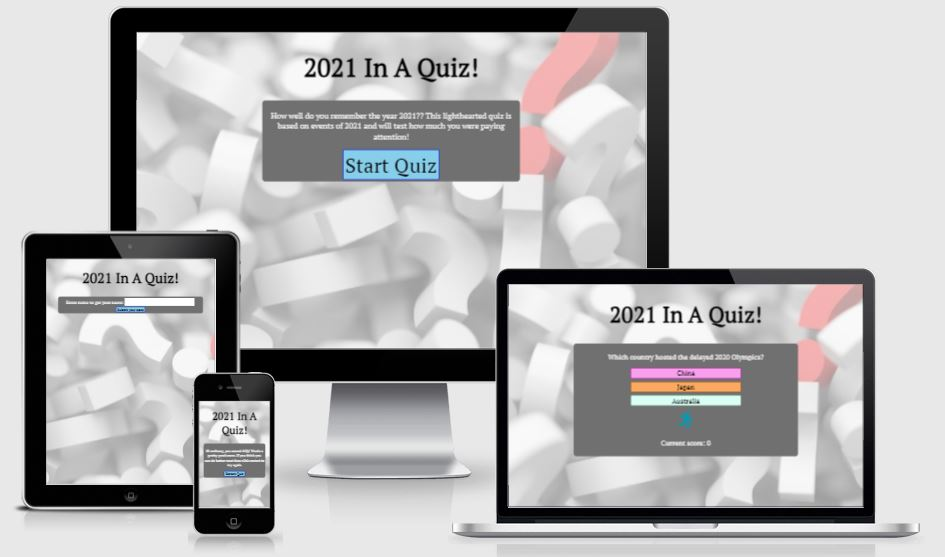
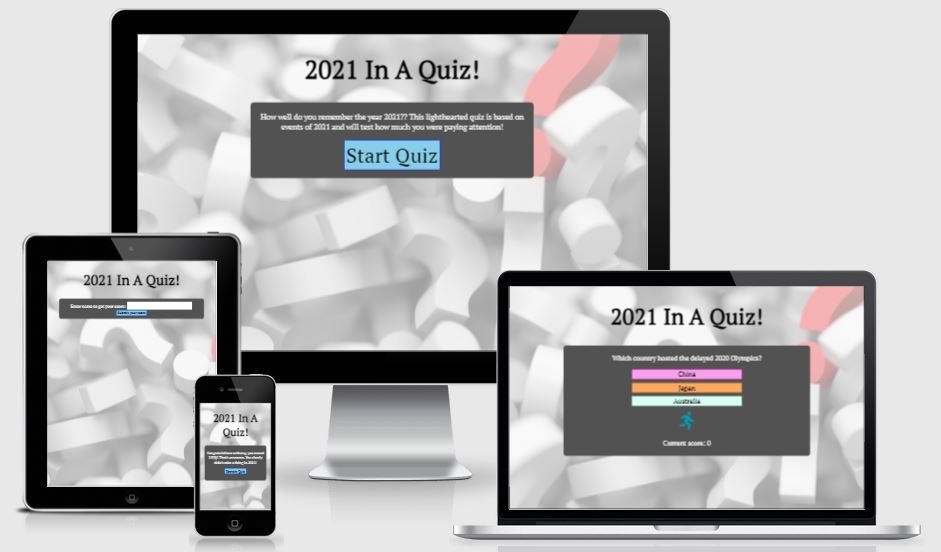
Fix typo in intro paragraph on index.html

diff --git a/assets/js/script.js b/assets/js/script.js
@@ -1,34 +1,34 @@
-const startButton = document.getElementById('start-btn');
-const restartButton = document.getElementById('restart-btn');
-const introArea = document.getElementById('intro-area')
-const quizArea = document.getElementById('question-area');
-const questionText = document.getElementById('question');
 const submissionArea = document.getElementById('submission-area');
+const categoryImage = document.getElementById('category-image');
+const buttons = document.getElementsByClassName('answer-btn');
+const restartButton = document.getElementById('restart-btn');
 const finalScore = document.getElementById('final-score');
+const quizArea = document.getElementById('question-area');
+const startButton = document.getElementById('start-btn');
+const questionText = document.getElementById('question');
+const introArea = document.getElementById('intro-area');
+const scoreArea = document.getElementById('score-area');
 const choiceA = document.getElementById('choice-a');
 const choiceB = document.getElementById('choice-b');
 const choiceC = document.getElementById('choice-c');
-const categoryImage = document.getElementById('category-image');
 
-let buttons = document.getElementsByClassName('answer-btn')
+let form = document.getElementById('submission-form');
 let userScore = document.getElementById('user-score');
 let userName = document.getElementById('username');
-let form = document.getElementById('submission-form');
-const scoreArea = document.getElementById('score-area');
 let currentQuestion = 0;
 let score = 0;
 
+restartButton.addEventListener('click', restartQuiz);
+startButton.addEventListener('click', startQuiz);
 form.addEventListener('submit', handleSubmit);
 
 
 
 
 /**
- * This function populates the current question and answers to the relevent areas in the HTML
+ * This function populates the current question and answers in the HTML and displays the players current score
  */
-
 function nextQuestion() {
-
   if (currentQuestion > lastQuestion) {
     endQuiz();
   } else {
@@ -43,8 +43,6 @@ function nextQuestion() {
   userScore.innerHTML = `Current score: ` + `${score}`;
 }
 
-startButton.addEventListener('click', startQuiz);
-restartButton.addEventListener('click', restartQuiz);
 
 
 /**

diff --git a/index.html b/index.html
@@ -26,7 +26,7 @@
     <!-- Quiz Intro -->
 
     <div id="intro-area">
-      <p id="intro">How well do you remember the year 2021?? This quiz is based on events of 2021 and will test 
+      <p id="intro">How well do you remember the year 2021? This quiz is based on events of 2021 and will test 
         how much you were paying attention!</p>
     </div>
 
